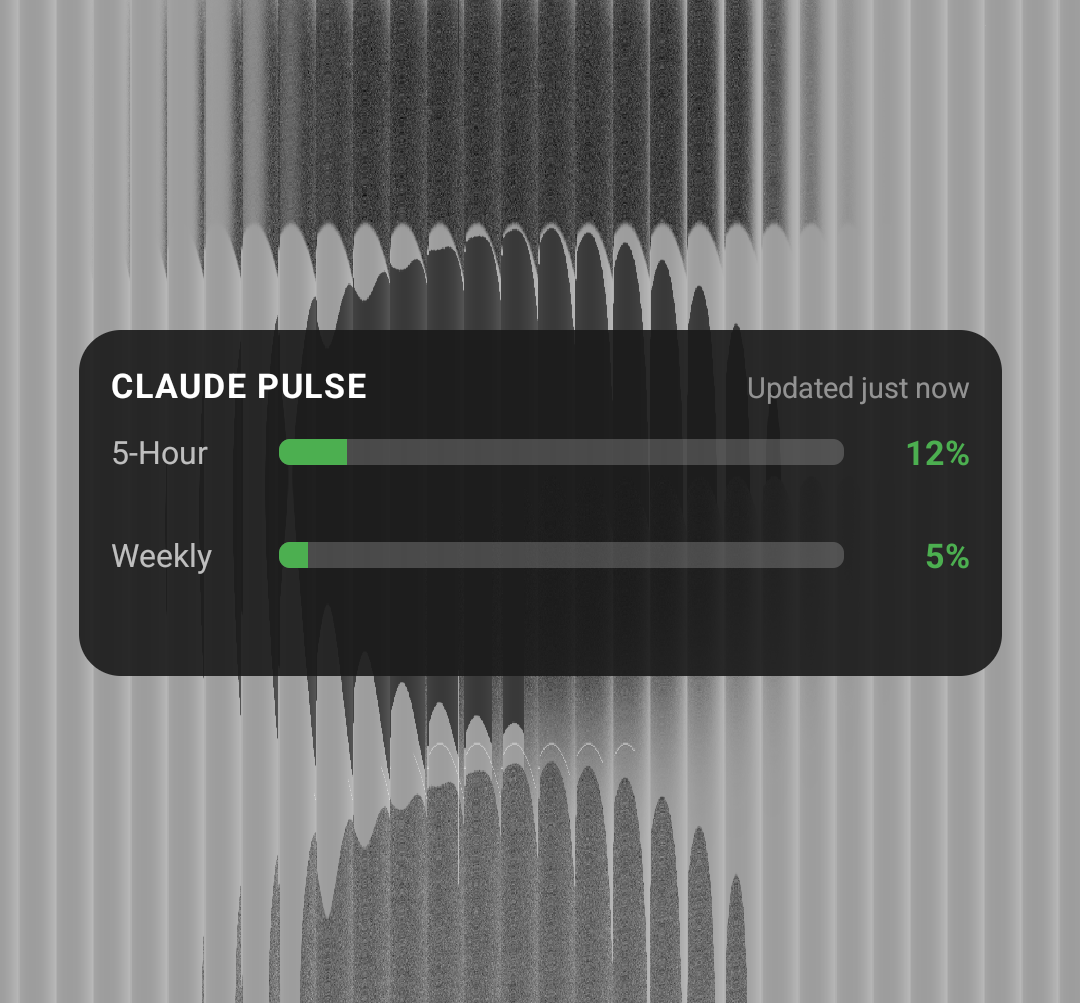
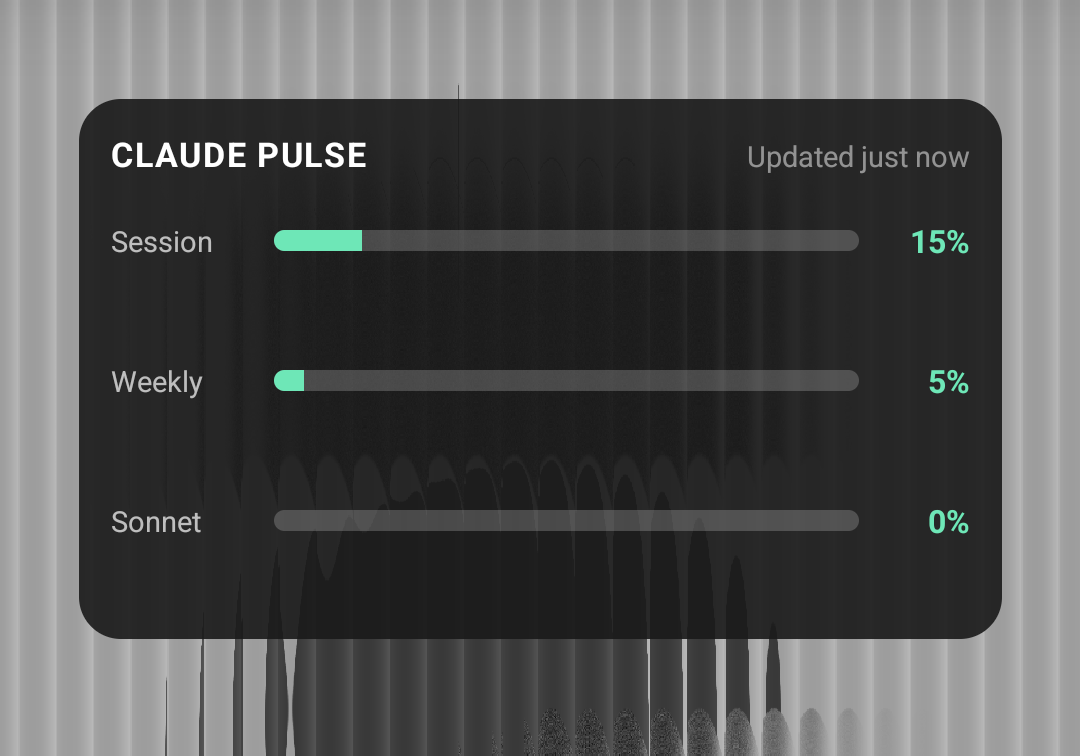
feat: 3 bars + brand color + dynamic layout
- Add Sonnet weekly bar (from seven_day_sonnet API field)
- Brand color #6ee7b7 for all bars and percentages
- Weighted layout: rows distribute evenly on vertical resize
- Labels: Session / Weekly / Sonnet
- Updated widget screenshot

diff --git a/app/src/main/java/com/ghayyath/claudepulse/PulseWidget.kt b/app/src/main/java/com/ghayyath/claudepulse/PulseWidget.kt
@@ -16,20 +16,17 @@ class PulseWidget : AppWidgetProvider() {
 
     companion object {
         private val executor = Executors.newSingleThreadExecutor()
+        private const val BRAND_COLOR = 0xFF6ee7b7.toInt()
     }
 
     override fun onUpdate(context: Context, appWidgetManager: AppWidgetManager, appWidgetIds: IntArray) {
         for (appWidgetId in appWidgetIds) {
-            // Render immediately with cached data — NO async, NO executor
             renderWidget(context, appWidgetManager, appWidgetId)
-
-            // Schedule background refresh separately
             scheduleRefresh(context, appWidgetManager, appWidgetId)
         }
     }
 
     override fun onAppWidgetOptionsChanged(context: Context, appWidgetManager: AppWidgetManager, appWidgetId: Int, newOptions: Bundle?) {
-        // Just re-render with cached data — no network call
         renderWidget(context, appWidgetManager, appWidgetId)
     }
 
@@ -53,15 +50,12 @@ class PulseWidget : AppWidgetProvider() {
     }
 
     private fun scheduleRefresh(context: Context, appWidgetManager: AppWidgetManager, appWidgetId: Int) {
-        // This runs AFTER renderWidget has already completed successfully.
-        // If this crashes, the widget still shows cached data.
         try {
             executor.execute {
                 try {
                     val freshData = ApiClient.fetchUsage(context)
                     if (freshData.error == null) {
                         cacheData(context, freshData)
-                        // Re-render with fresh data
                         renderWidget(context, appWidgetManager, appWidgetId)
                     }
                 } catch (_: Exception) {}
@@ -72,21 +66,29 @@ class PulseWidget : AppWidgetProvider() {
     private fun buildFullViews(context: Context, data: UsageData): RemoteViews {
         val views = RemoteViews(context.packageName, R.layout.widget_layout)
 
-        val fiveHourPct = data.fiveHourUtilization.toInt().coerceIn(0, 100)
+        val sessionPct = data.fiveHourUtilization.toInt().coerceIn(0, 100)
         val weeklyPct = data.sevenDayUtilization.toInt().coerceIn(0, 100)
+        val sonnetPct = data.sonnetUtilization.toInt().coerceIn(0, 100)
 
         views.setTextViewText(R.id.updated_ago, formatTimeSince(data.cachedAt))
 
-        views.setProgressBar(R.id.five_hour_bar, 100, fiveHourPct, false)
-        views.setTextViewText(R.id.five_hour_pct, "${fiveHourPct}%")
+        // Session
+        views.setProgressBar(R.id.five_hour_bar, 100, sessionPct, false)
+        views.setTextViewText(R.id.five_hour_pct, "${sessionPct}%")
         views.setTextViewText(R.id.five_hour_reset, formatResetTime(data.fiveHourResetsAt))
+        views.setTextColor(R.id.five_hour_pct, BRAND_COLOR)
 
+        // Weekly
         views.setProgressBar(R.id.weekly_bar, 100, weeklyPct, false)
         views.setTextViewText(R.id.weekly_pct, "${weeklyPct}%")
         views.setTextViewText(R.id.weekly_reset, formatResetTime(data.sevenDayResetsAt))
+        views.setTextColor(R.id.weekly_pct, BRAND_COLOR)
 
-        views.setTextColor(R.id.five_hour_pct, getThresholdColor(fiveHourPct))
-        views.setTextColor(R.id.weekly_pct, getThresholdColor(weeklyPct))
+        // Sonnet
+        views.setProgressBar(R.id.sonnet_bar, 100, sonnetPct, false)
+        views.setTextViewText(R.id.sonnet_pct, "${sonnetPct}%")
+        views.setTextViewText(R.id.sonnet_reset, formatResetTime(data.sonnetResetsAt))
+        views.setTextColor(R.id.sonnet_pct, BRAND_COLOR)
 
         return views
     }
@@ -94,25 +96,23 @@ class PulseWidget : AppWidgetProvider() {
     private fun buildCompactViews(context: Context, data: UsageData): RemoteViews {
         val views = RemoteViews(context.packageName, R.layout.widget_layout_small)
 
-        val fiveHourPct = data.fiveHourUtilization.toInt().coerceIn(0, 100)
+        val sessionPct = data.fiveHourUtilization.toInt().coerceIn(0, 100)
         val weeklyPct = data.sevenDayUtilization.toInt().coerceIn(0, 100)
+        val sonnetPct = data.sonnetUtilization.toInt().coerceIn(0, 100)
 
-        views.setProgressBar(R.id.five_hour_bar, 100, fiveHourPct, false)
-        views.setTextViewText(R.id.five_hour_pct, "${fiveHourPct}%")
+        views.setProgressBar(R.id.five_hour_bar, 100, sessionPct, false)
+        views.setTextViewText(R.id.five_hour_pct, "${sessionPct}%")
+        views.setTextColor(R.id.five_hour_pct, BRAND_COLOR)
+
         views.setProgressBar(R.id.weekly_bar, 100, weeklyPct, false)
         views.setTextViewText(R.id.weekly_pct, "${weeklyPct}%")
+        views.setTextColor(R.id.weekly_pct, BRAND_COLOR)
 
-        views.setTextColor(R.id.five_hour_pct, getThresholdColor(fiveHourPct))
-        views.setTextColor(R.id.weekly_pct, getThresholdColor(weeklyPct))
+        views.setProgressBar(R.id.sonnet_bar, 100, sonnetPct, false)
+        views.setTextViewText(R.id.sonnet_pct, "${sonnetPct}%")
+        views.setTextColor(R.id.sonnet_pct, BRAND_COLOR)
 
         return views
-    }
-
-    private fun getThresholdColor(pct: Int): Int = when {
-        pct >= 90 -> 0xFFF44336.toInt()
-        pct >= 75 -> 0xFFFF5722.toInt()
-        pct >= 50 -> 0xFFFF9800.toInt()
-        else -> 0xFF4CAF50.toInt()
     }
 
     private fun formatResetTime(isoTime: String?): String {
@@ -162,6 +162,8 @@ class PulseWidget : AppWidgetProvider() {
             .putString("five_hour_reset", data.fiveHourResetsAt)
             .putFloat("seven_day", data.sevenDayUtilization.toFloat())
             .putString("seven_day_reset", data.sevenDayResetsAt)
+            .putFloat("sonnet", data.sonnetUtilization.toFloat())
+            .putString("sonnet_reset", data.sonnetResetsAt)
             .putString("cached_at", data.cachedAt)
             .apply()
     }
@@ -174,6 +176,8 @@ class PulseWidget : AppWidgetProvider() {
             fiveHourResetsAt = prefs.getString("five_hour_reset", null),
             sevenDayUtilization = prefs.getFloat("seven_day", 0f).toDouble(),
             sevenDayResetsAt = prefs.getString("seven_day_reset", null),
+            sonnetUtilization = prefs.getFloat("sonnet", 0f).toDouble(),
+            sonnetResetsAt = prefs.getString("sonnet_reset", null),
             cachedAt = prefs.getString("cached_at", null)
         )
     }

diff --git a/app/src/main/java/com/ghayyath/claudepulse/UsageData.kt b/app/src/main/java/com/ghayyath/claudepulse/UsageData.kt
@@ -7,6 +7,8 @@ data class UsageData(
     val fiveHourResetsAt: String?,
     val sevenDayUtilization: Double,
     val sevenDayResetsAt: String?,
+    val sonnetUtilization: Double,
+    val sonnetResetsAt: String?,
     val cachedAt: String?,
     val error: String? = null
 ) {
@@ -14,11 +16,14 @@ data class UsageData(
         fun fromJson(json: JSONObject): UsageData {
             val fiveHour = json.optJSONObject("five_hour")
             val sevenDay = json.optJSONObject("seven_day")
+            val sonnet = json.optJSONObject("seven_day_sonnet")
             return UsageData(
                 fiveHourUtilization = fiveHour?.optDouble("utilization", 0.0) ?: 0.0,
                 fiveHourResetsAt = fiveHour?.optString("resets_at", null),
                 sevenDayUtilization = sevenDay?.optDouble("utilization", 0.0) ?: 0.0,
                 sevenDayResetsAt = sevenDay?.optString("resets_at", null),
+                sonnetUtilization = sonnet?.optDouble("utilization", 0.0) ?: 0.0,
+                sonnetResetsAt = sonnet?.optString("resets_at", null),
                 cachedAt = json.optString("cached_at", null),
                 error = json.optString("error", null).takeIf { it != "null" && !it.isNullOrEmpty() }
             )
@@ -29,6 +34,8 @@ data class UsageData(
             fiveHourResetsAt = null,
             sevenDayUtilization = 0.0,
             sevenDayResetsAt = null,
+            sonnetUtilization = 0.0,
+            sonnetResetsAt = null,
             cachedAt = null,
             error = "No data yet"
         )

diff --git a/app/src/main/java/com/ghayyath/claudepulse/ApiClient.kt b/app/src/main/java/com/ghayyath/claudepulse/ApiClient.kt
@@ -40,6 +40,8 @@ object ApiClient {
             .putString("five_hour_reset", data.fiveHourResetsAt)
             .putFloat("seven_day", data.sevenDayUtilization.toFloat())
             .putString("seven_day_reset", data.sevenDayResetsAt)
+            .putFloat("sonnet", data.sonnetUtilization.toFloat())
+            .putString("sonnet_reset", data.sonnetResetsAt)
             .putString("cached_at", data.cachedAt)
             .apply()
     }
